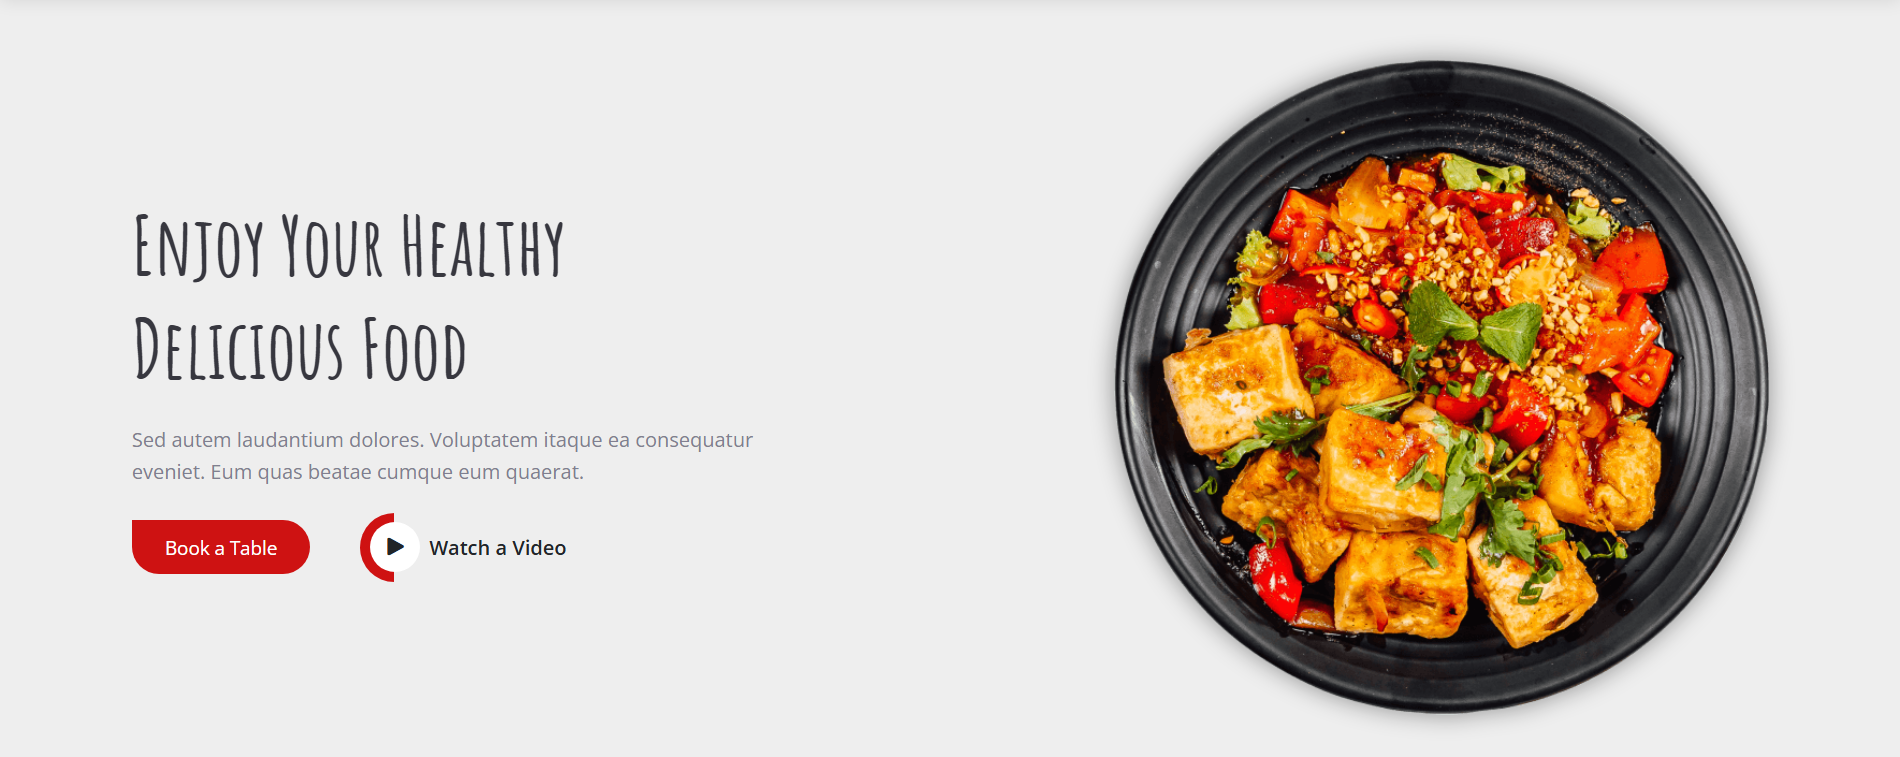
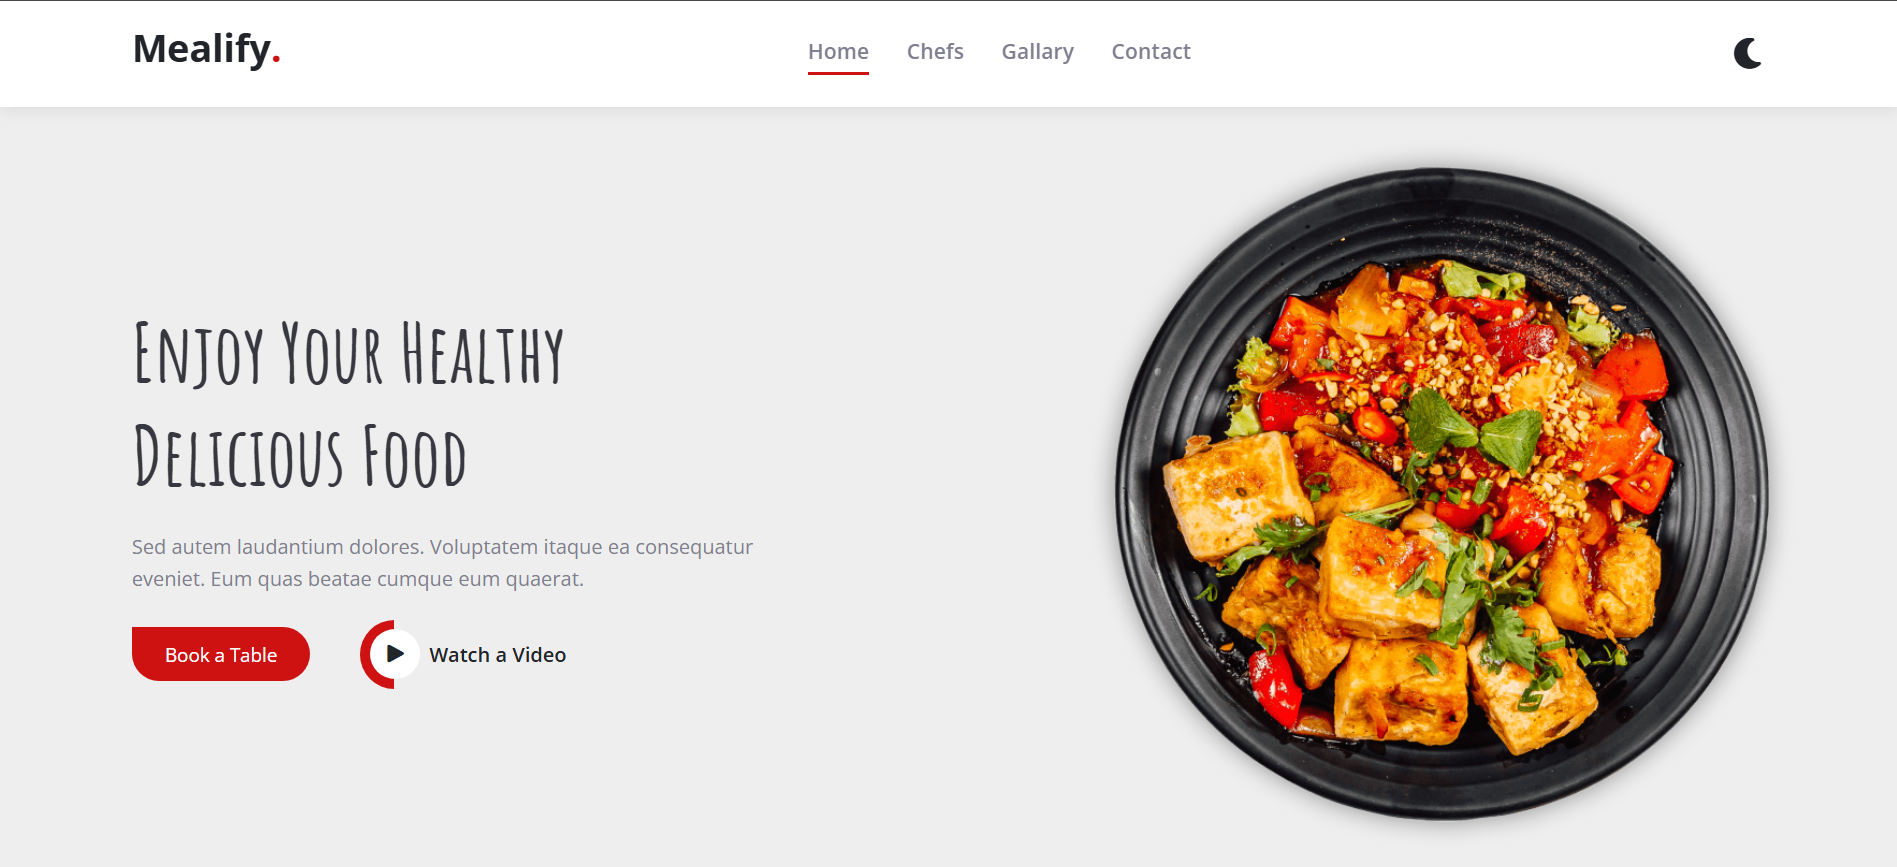
add Darmode Screenshot to Readme

diff --git a/index.html b/index.html
@@ -76,7 +76,7 @@
               eveniet. Eum quas beatae cumque eum quaerat.
             </p>
             <div class="buttons">
-              <a href="#Contact" class="btn btn-main">Book a Table</a>
+              <a href="#contact" class="btn btn-main">Book a Table</a>
               <a href="https://youtube.com" class="video-btn">
                 <div class="icon"><i class="fa-solid fa-play"></i></div>
                 Watch a Video</a

diff --git a/README.md b/README.md
@@ -10,6 +10,8 @@ A modern restaurant landing page built with **pure HTML5 and CSS3**, inspired by
 
 ![Mealify Website Homepage](img/Screenshot.png)
 
+![Mealify Website in Dark Mode](img/Darkmode-Screenshof.png.png)
+
 ## 📋 Overview
 
 Mealify is a restaurant website template that presents a restaurant's identity, professional chefs, food gallery, contact information, and social media presence through a visually engaging, single-page layout.
@@ -31,13 +33,13 @@ The implementation focuses on translating the reference design into a responsive
 
 ## 🛠 Technologies & Tools
 
-| Technology | Application |
-|---|---|
-| HTML5 | Page structure and content |
-| CSS3 | Styling, animations, transitions, and visual effects |
-| Google Fonts | Open Sans, Inter, and Amatic SC typography |
-| Font Awesome Free | Icons and visual elements |
-| GitHub Pages | Website hosting and deployment |
+| Technology        | Application                                          |
+| ----------------- | ---------------------------------------------------- |
+| HTML5             | Page structure and content                           |
+| CSS3              | Styling, animations, transitions, and visual effects |
+| Google Fonts      | Open Sans, Inter, and Amatic SC typography           |
+| Font Awesome Free | Icons and visual elements                            |
+| GitHub Pages      | Website hosting and deployment                       |
 
 **Implementation note:** The website is built entirely with HTML and CSS. No JavaScript libraries, JavaScript code, or CSS frameworks are used.
 
@@ -99,6 +101,7 @@ Mealify-Template/
 │   └── metal-background.jpg
 └── webfonts/
 ```
+
 ## 🎨 Design Reference
 
 [**View the Original Mealify Template**](https://mealify-teal.vercel.app/)
